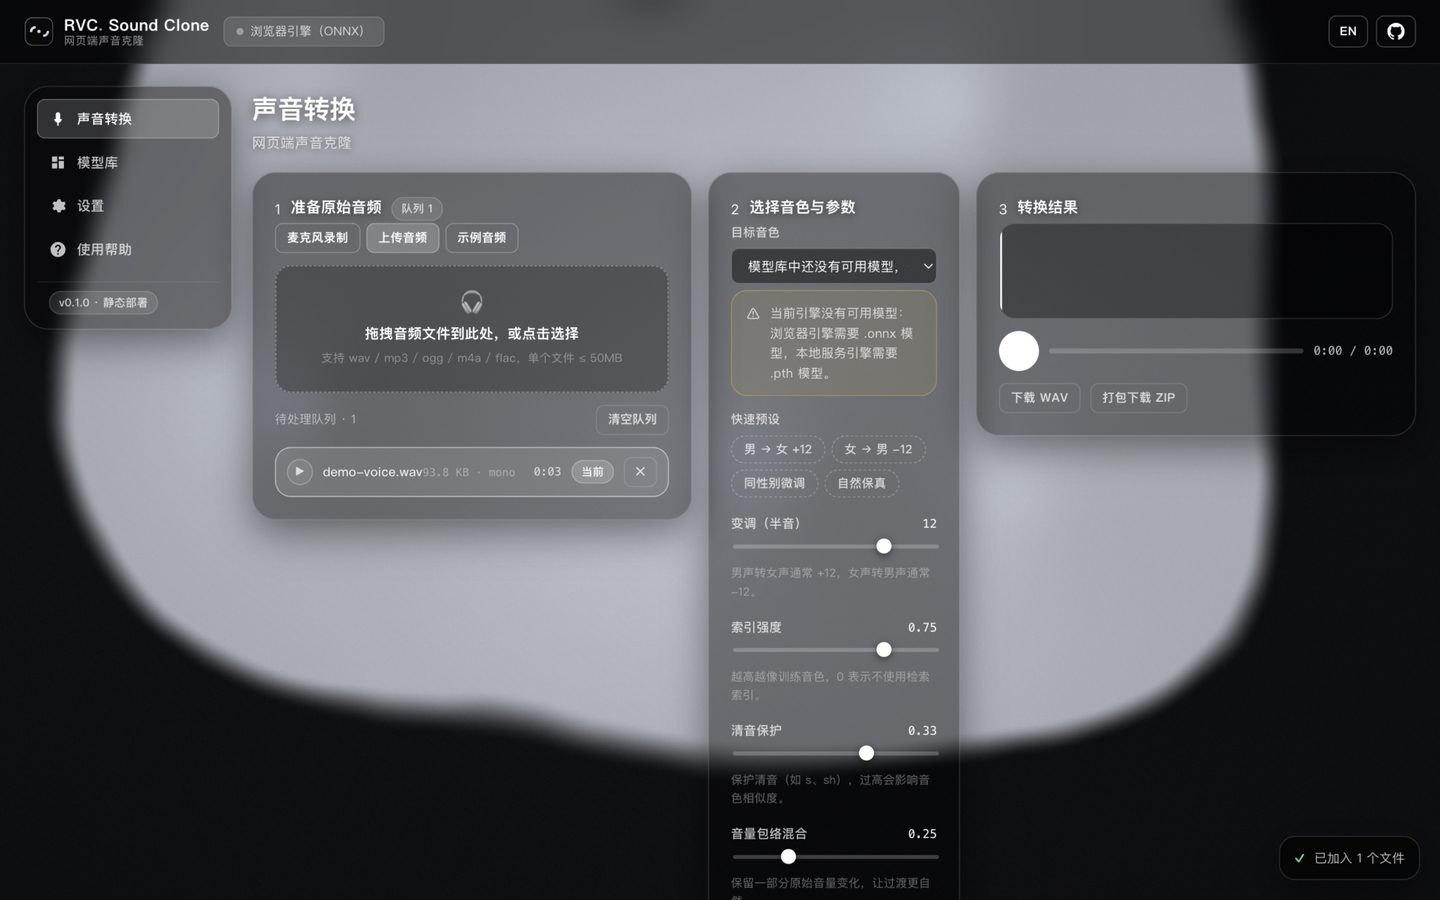
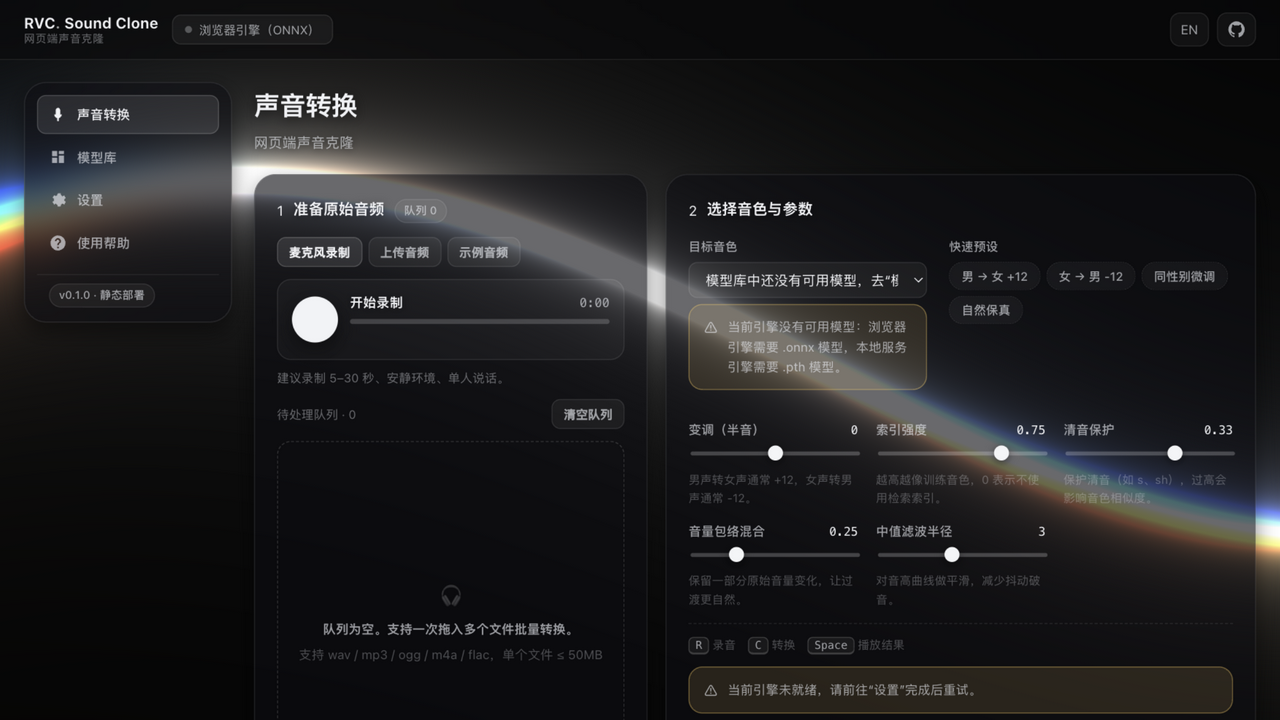
docs: 更新 README 截图与布局/移动端适配说明

diff --git a/README.md b/README.md
@@ -30,10 +30,14 @@ English intro at the bottom → [English](#-english)
 
 ![转换页](docs/screenshot-convert.png)
 
-转换页按「准备原始音频 → 选择音色与参数 → 播放导出」三步排布，右侧结果区可试听、下载 WAV 或打包 ZIP；
+转换页分三步：第一行「准备原始音频」与「选择音色与参数」左右并排（参数卡的五个滑块横向排布，队列区自动填满卡片剩余高度），
+第二行「转换结果」横跨整页，波形更宽，可试听、下载 WAV 或打包 ZIP；
 四个快速预设（男→女 / 女→男 / 同性别微调 / 自然保真）一键套用常用参数组合，队列支持原声试听。
 
 > 玻璃面板与控件语言与 [Image Metadata Cleaner](https://forjiang.github.io/image-metadata-cleaner/) 一致：深色单一主题（`#0a0a0c`）、`rgba(13,14,18,.62)` 半透明玻璃面板（白色 9% 描边、16px 模糊）、22px 圆角卡片、近白主 CTA，内嵌表面统一用白色低透明度叠加。背景改为自研 WebGL fragment shader 绘制的 RGB 正弦波场（无第三方依赖）：三条正弦波分别驱动 R/G/B 通道、按到屏幕中心的距离扭曲，`0.05/abs(...)` 收成细亮线后形成流动彩带；带画质自适应档位，`prefers-reduced-motion` 下自动静止，WebGL 不可用时回落到 CSS 渐变。
+移动端做了三处适配：画布高度用 `100lvh`（地址栏收放时不重算尺寸，波形不会被拉伸跳动）、
+滚动期间暂停背景渲染（背景完全静止，GPU 让给页面合成，停下约 150ms 后恢复流动）、窄屏把面板模糊从 16px 降到 6px。
+站点图标（favicon）以 base64 内联在 HTML 里，规避浏览器 favicon 缓存导致标签页不更新；文件形式的多尺寸图标由 `tools/make_icons.py` 生成。
 
 ## 🧩 它是怎么工作的
 
@@ -152,8 +156,7 @@ rvc-sound-clone/
 ├─ models/manifest.json    基础模型与模型来源登记
 ├─ tools/export_onnx.py    .pth → ONNX 转换脚本
 ├─ server/bridge.py        本地服务桥接层（纯标准库）
-├─ docs/                   用法、模型转换、FAQ、架构
-└─ docs/                    用法、模型转换、FAQ、架构、部署
+└─ docs/                   用法、模型转换、FAQ、架构、部署
 ```
 
 ## 🗺 路线图

diff --git a/docs/architecture.md b/docs/architecture.md
@@ -70,6 +70,11 @@ R/G/B 通道，横坐标按到屏幕中心的距离做 distortion 扭曲，`0.05
 内容统一压在玻璃面板上保证可读性。背景渲染带画质自适应档位（2560×1440 起步，p95 帧时间超标才降档），
 `prefers-reduced-motion` 下静态成一帧，WebGL 不可用时回落到 CSS 渐变。
 
+移动端另有三处适配：画布 CSS 高度用 `100lvh` 而非 `100%`（地址栏收放会改变视口高度，
+用 `100%` 会让画布反复重算尺寸、波形被拉伸跳动，`lvh` 取两种状态里的较大值，可见区域始终稳定）；
+滚动期间通过 passive scroll 监听暂停渲染（不清屏、保留最后一帧，停下约 150ms 后恢复），
+把 GPU 让给页面合成；`≤860px` 时把玻璃面板的 `backdrop-filter` 从 16px 降到 6px。
+
 ## 部署
 
 纯静态。默认走 GitHub Pages 的「分支部署」：push 到 `main` 即发布仓库根目录，无需构建。
